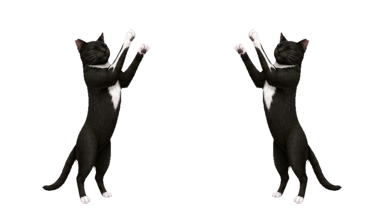
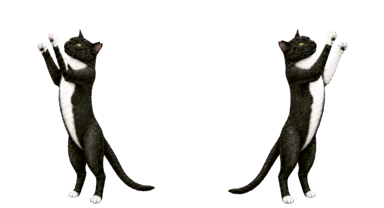
Fix Ajman scratch white belly and Winnie failed-state size
Scratch: swap the reach-up frames for the owner's corrected pair with a continuous white belly (chin to hind legs); matched to the prior frames' 175px content height and ground line 203; scratch.webp rebuilt (both orientations). Winnie failed state: her 0.67x panel scale was applied but the raw failed-row art was oversized (Steady Size off), so she rendered too big; SpriteSheet.swift now fits Winnie's failed row to her idle content box. Other states and pets unchanged. Selftest OK.

Changed region(s): [[0.0938, 0.1442, 0.4062, 0.9808], [0.5938, 0.1442, 0.9062, 0.9808]]

diff --git a/Sources/Ajman/main.swift b/Sources/Ajman/main.swift
@@ -518,6 +518,28 @@ private func runSelfTest() -> Int32 {
             }
             print("Sprite normalization \(id): all \(checkedFrameCount) used frames inside 192x208; ground line within 1 px")
         }
+        if normalizationPetIDs.contains("winnie") {
+            let winnieSheet = try catalog.load(id: "winnie", steadySize: false).sheet
+            guard let idle = winnieSheet.animationTable.definition(for: .idle),
+                  let failed = winnieSheet.animationTable.definition(for: .failed),
+                  let idleTarget = SteadySize.targetBox(
+                    idleBounds: winnieSheet.contentBounds(for: idle).compactMap { $0 },
+                    cellWidth: SpriteSheet.cellWidth,
+                    cellHeight: SpriteSheet.cellHeight
+                  ) else {
+                throw SelfTestError("Winnie idle/failed definitions could not be measured")
+            }
+            let failedBounds = winnieSheet.contentBounds(for: failed).compactMap { $0 }
+            guard failedBounds.count == failed.frameCount,
+                  failedBounds.allSatisfy({
+                    $0.width <= idleTarget.width + 2
+                        && $0.height <= idleTarget.height + 2
+                        && abs($0.minY - CGFloat(SpriteSheet.contentMargin)) <= 1
+                  }) else {
+                throw SelfTestError("Winnie failed frames were not fitted to her idle size: \(failedBounds)")
+            }
+            print("Winnie failed scale: all \(failed.frameCount) frames fit her idle box with Steady Size off")
+        }
         print("Sprite normalization (\(normalizationPetIDs.joined(separator: ", "))): idle heights within 2 px; no clipping")
 
         try invokeHook(event: "PreToolUse", tool: "Bash")

diff --git a/Sources/Ajman/SpriteSheet.swift b/Sources/Ajman/SpriteSheet.swift
@@ -120,6 +120,13 @@ struct SpriteSheet {
         }
         if steadySize {
             cells = normalized(cells: cells, table: table)
+        } else {
+            let manifestID = manifest.id?.trimmingCharacters(in: .whitespacesAndNewlines)
+            let petID = (manifestID?.isEmpty == false ? manifestID : nil)
+                ?? manifestURL.deletingLastPathComponent().lastPathComponent
+            if petID.caseInsensitiveCompare("winnie") == .orderedSame {
+                cells = normalized(cells: cells, table: table, states: [.failed])
+            }
         }
         return SpriteSheet(animationTable: table, sourceURL: sheetURL, cells: cells)
     }
@@ -141,11 +148,20 @@ struct SpriteSheet {
         let data: [UInt8]
     }
 
-    private static func normalized(cells: [[CGImage]], table: AnimationTable) -> [[CGImage]] {
+    private static func normalized(
+        cells: [[CGImage]],
+        table: AnimationTable,
+        states: Set<AnimationState>? = nil
+    ) -> [[CGImage]] {
         var result = cells
         let used = table.definitions.flatMap { definition in
             (0..<definition.frameCount).map { FrameLocation(row: definition.row, column: $0) }
         }
+        let selected = table.definitions
+            .filter { states?.contains($0.state) ?? true }
+            .flatMap { definition in
+                (0..<definition.frameCount).map { FrameLocation(row: definition.row, column: $0) }
+            }
         let measured = Dictionary(uniqueKeysWithValues: used.compactMap { location -> (FrameLocation, CGRect)? in
             guard let bitmap = rgbaBitmap(from: cells[location.row][location.column]),
                   let bounds = contentBounds(in: bitmap.data) else { return nil }
@@ -161,7 +177,7 @@ struct SpriteSheet {
             cellHeight: cellHeight
         ) else { return result }
 
-        for location in used {
+        for location in selected {
             guard let bounds = measured[location],
                   let normalized = normalize(
                     cells[location.row][location.column],